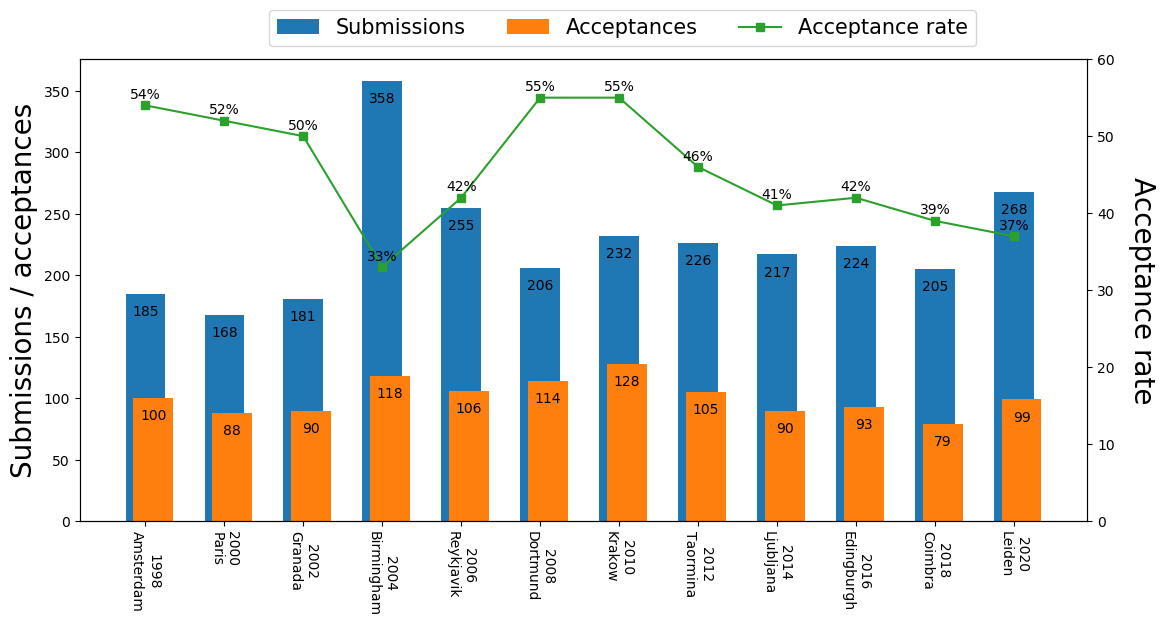
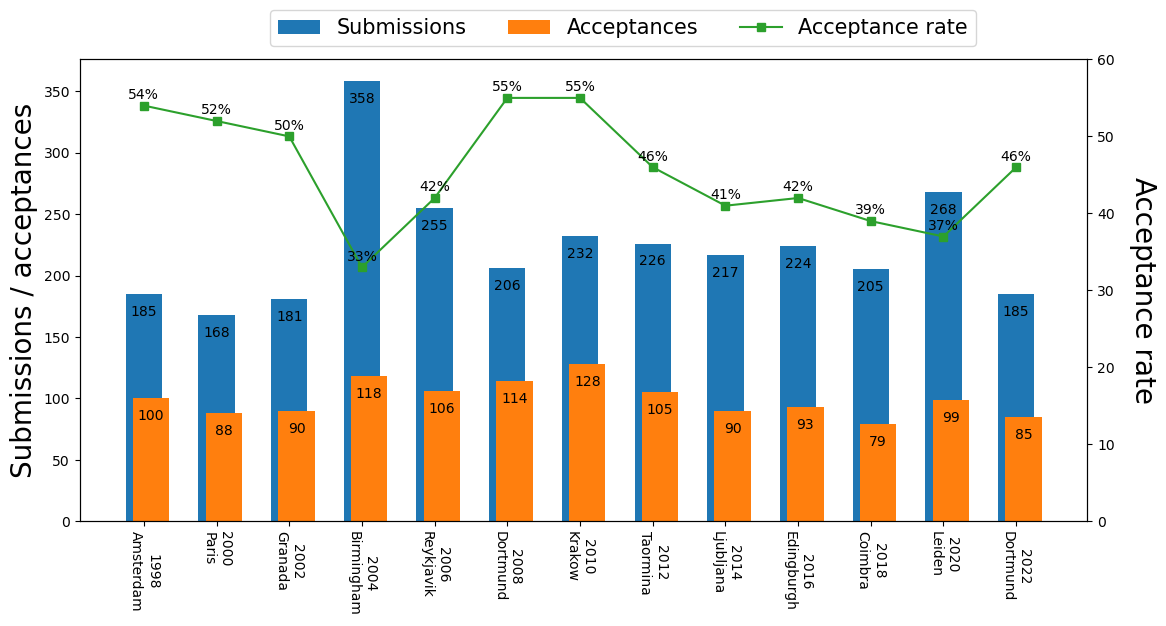
updated stats for ppsn

diff --git a/index.md b/index.md
@@ -31,7 +31,7 @@ The date format in the following table is ``Year.Month.Day``. The submission dea
 | [EMO 2023](https://emo2023.liacs.leidenuniv.nl) | Leiden, The Netherlands | 2023.03.20 | 2023.03.24 |  | 2022.09.26|
 | [Evostar 2023](https://www.evostar.org/2023/) | Brno, Czech Republic | 2023.04.12 | 2023.04.14 | | 2022.11.01 |
 | CEC 2023 | Chicago, USA | 2023.07.02 | 2023.07.05 |  |  |
-| GECCO 2023 | Lisbon , Portugal | 2023.07.15 | 2023.07.19 |  |  |
+| [GECCO 2023](https://gecco-2023.sigevo.org/) | Lisbon , Portugal | 2023.07.15 | 2023.07.19 |  |  |
 | FOGA 2023 |  |  |  |  |  |
 | [WCCI 2024](https://wcci2024.org/) | Yokohama, Japan | 2024.06.30 | 2024.07.05 |  |  |
 
@@ -143,6 +143,7 @@ PPSN is held in even years.
 | 2016 | 224        | 93         | 42%             | Edingburgh | 
 | 2018 | 205        | 79         | 39%             | Coimbra    | 
 | 2020 | 268        | 99         | 37%             | Leiden     | 
+| 2022 | 185        | 85         | 46%             | Dortmund     | 
 
 ![PPSN](fig/stats_ppsn.png) 
 
